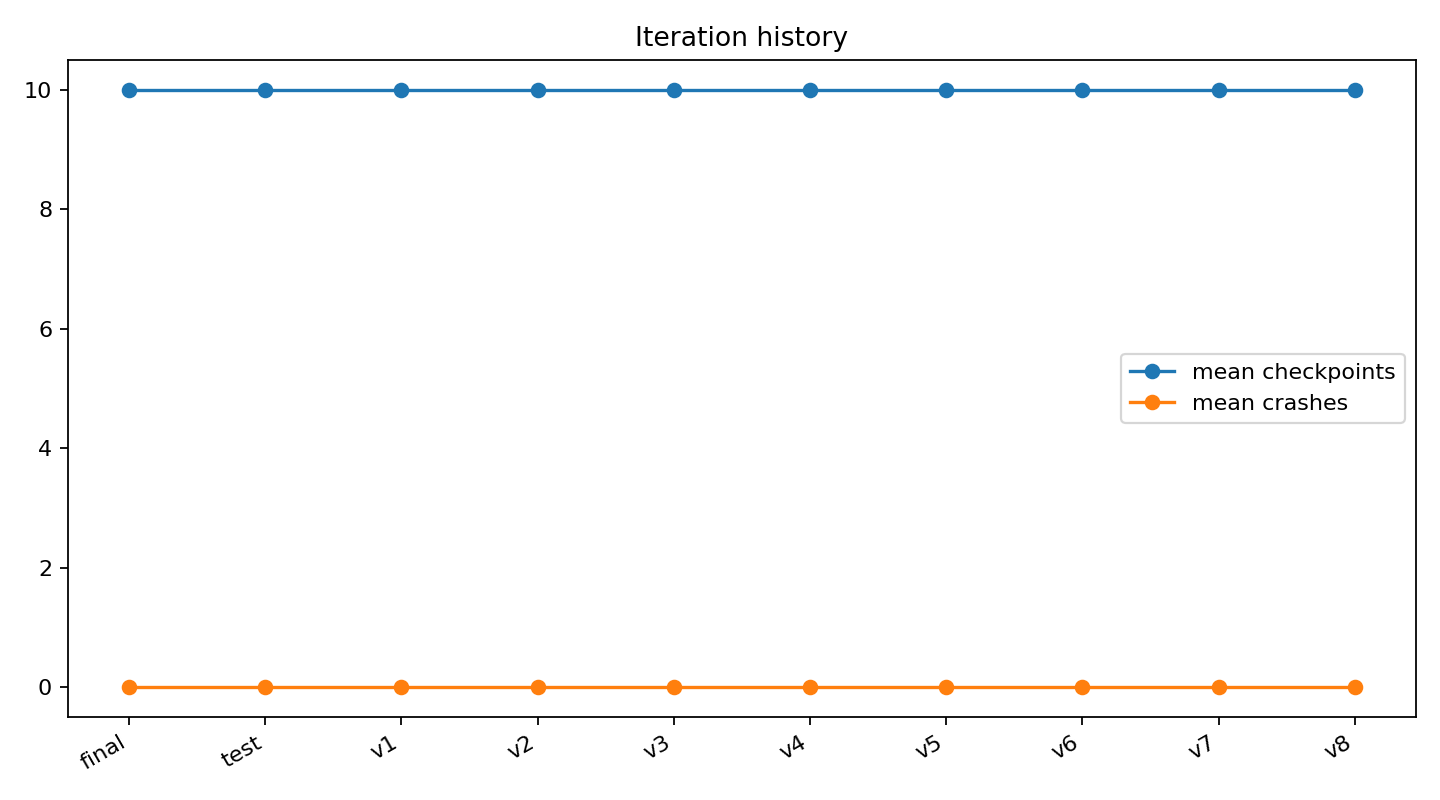
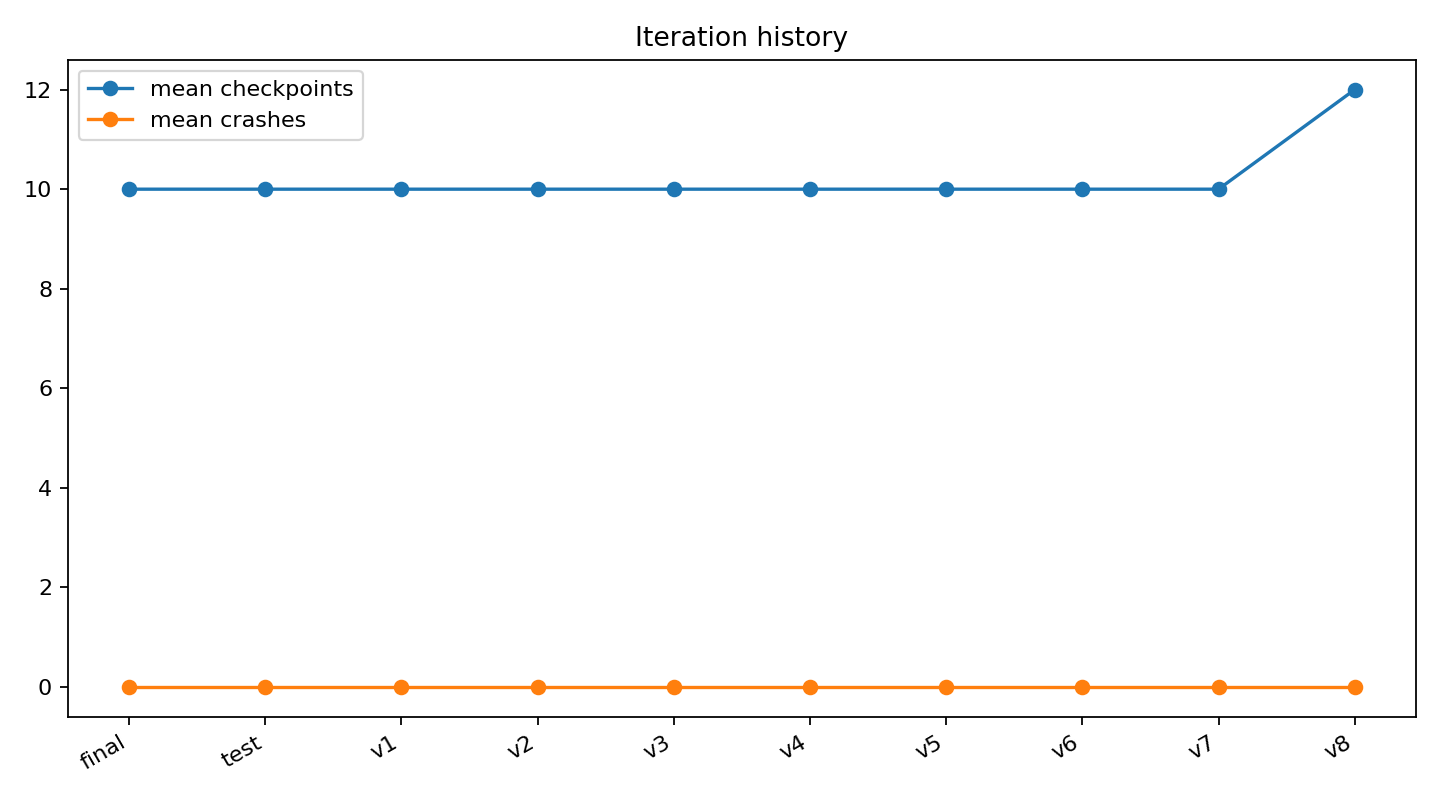
fix: divide track into 12 checkpoint regions

diff --git a/drive2win/eval.py b/drive2win/eval.py
@@ -66,7 +66,7 @@ def run_policy(package: dict, seed: int, steps: int = 650, smoothing: float = 0.
 
         d = np.linalg.norm(track - pos, axis=1)
         idx = int(np.argmin(d))
-        checkpoints.add(idx // 30)
+        checkpoints.add(idx // 25)
         if d[idx] > 7.5:
             crashes += 1
             # soft reset toward track; still counts as mistake
